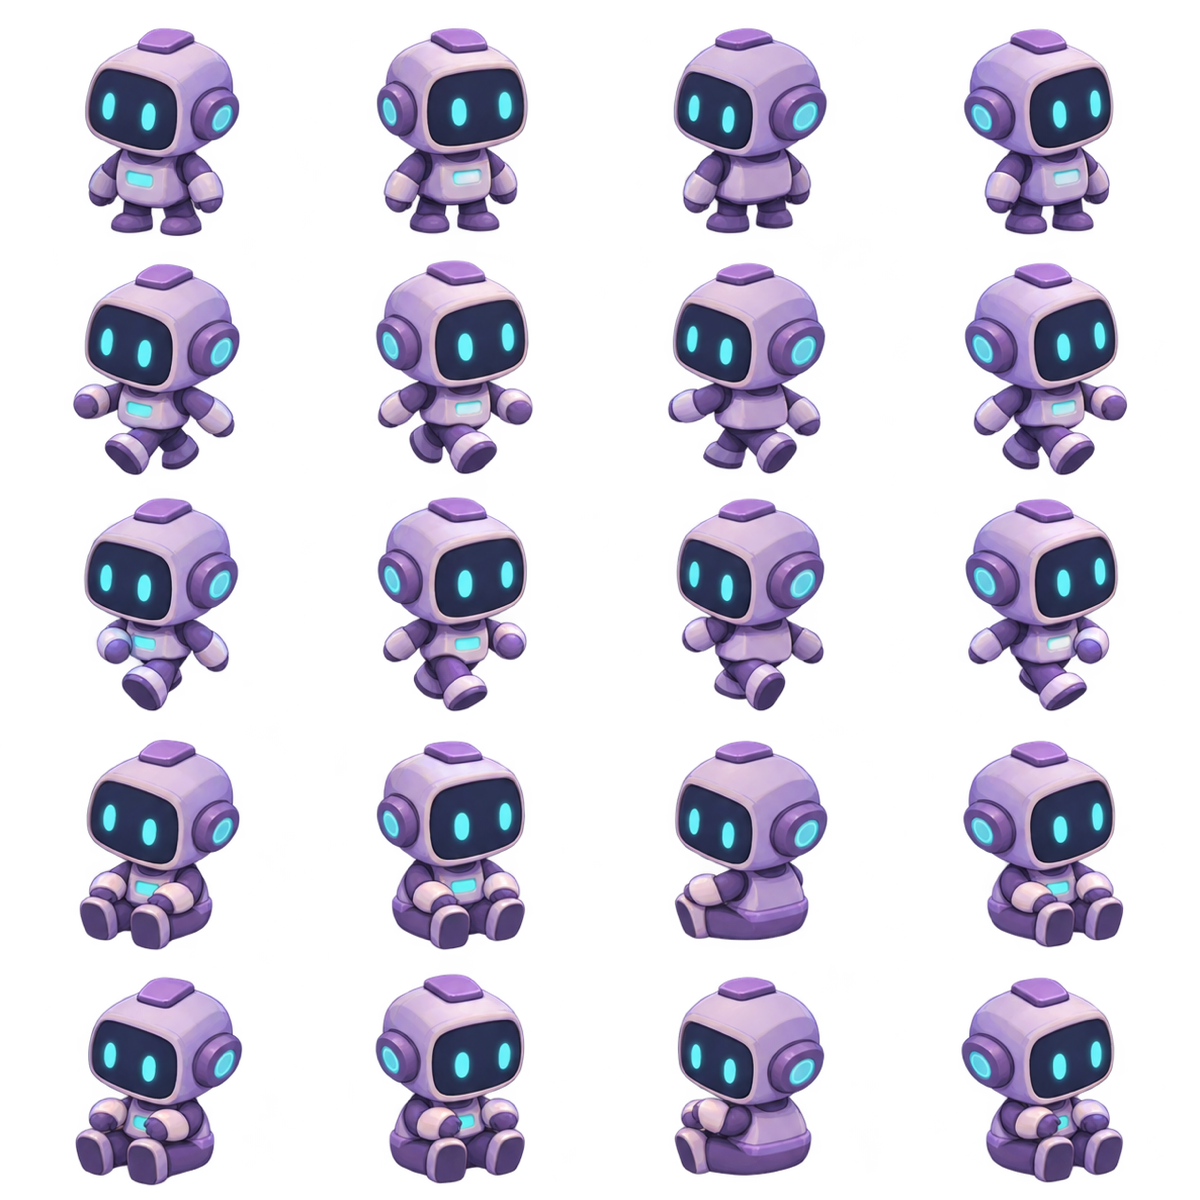
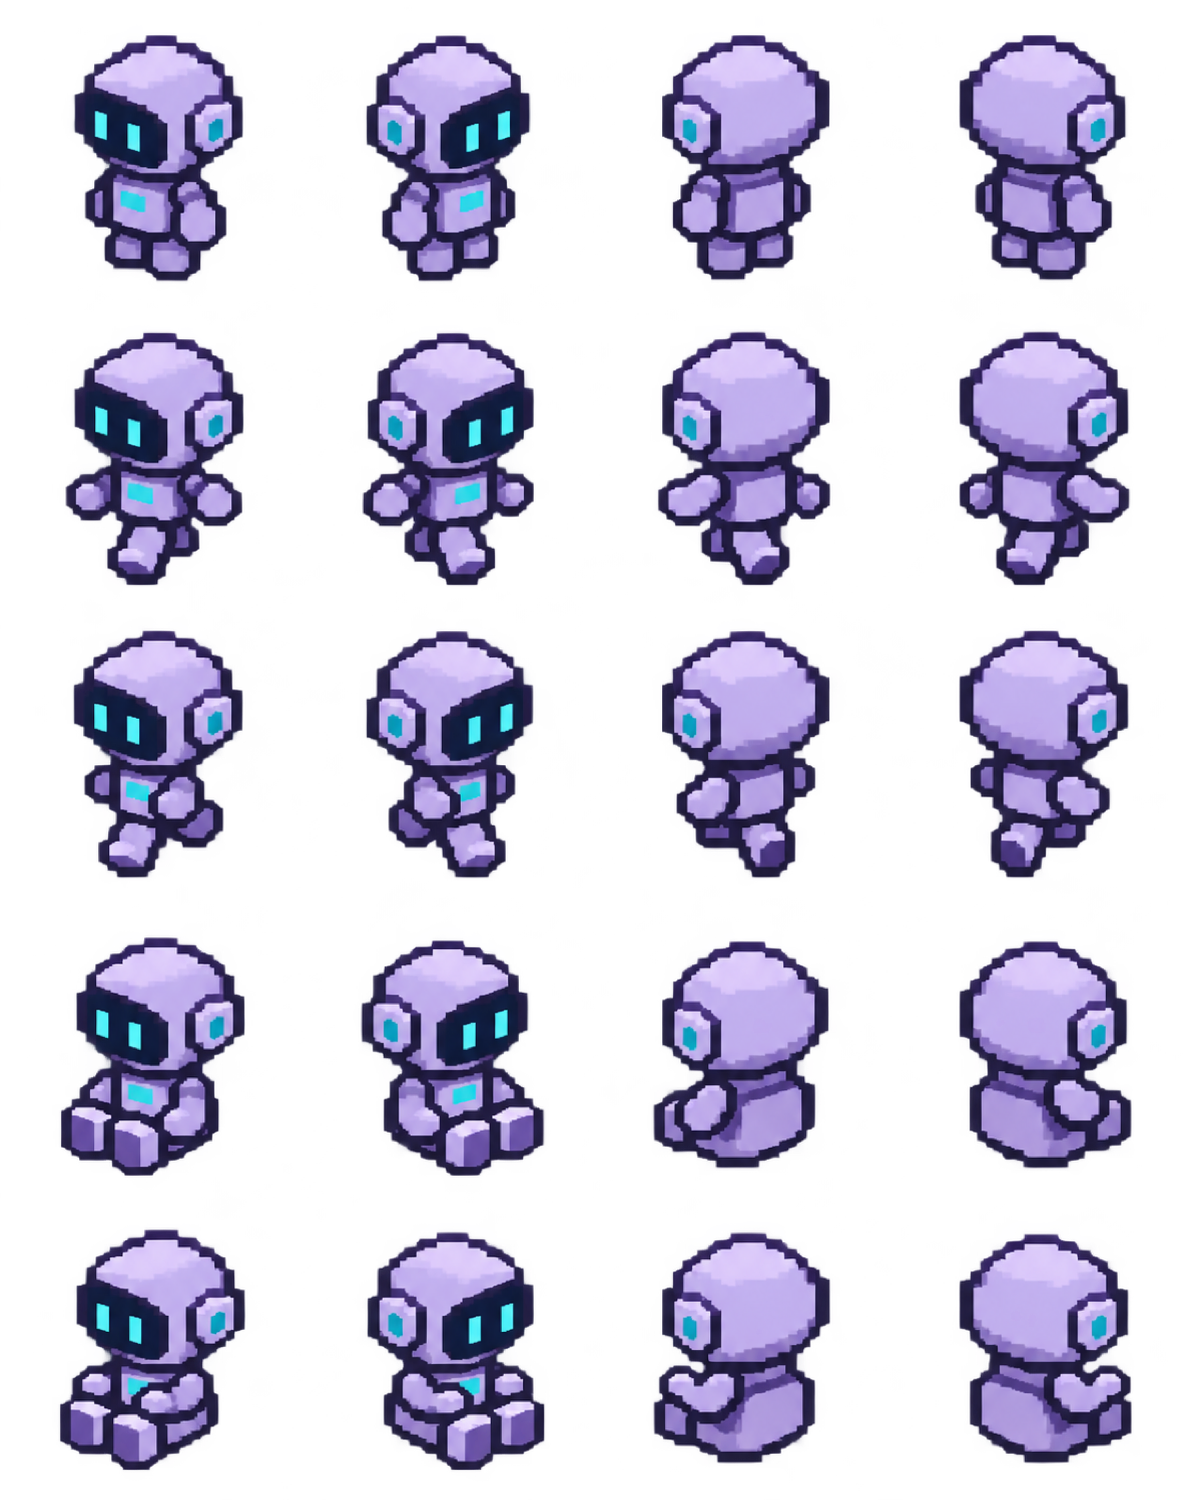
feat: add pixel-art player variants and world

diff --git a/web/src/Office.tsx b/web/src/Office.tsx
@@ -1,7 +1,7 @@
 import { useEffect, useRef } from "react";
 import { Application, Container, Graphics, Text } from "pixi.js";
 import { makeElevator,makeProjectBoard, makeWindows, makeWorkstations } from "./OfficeFixtures";
-import {createCharacterSprite,directionFromDelta,directionFromFacing,preloadCharacterSprites,type CharacterDirection,type CharacterSprite} from "./characterSprites";
+import {createCharacterSprite,directionFromDelta,directionFromFacing,preloadCharacterSprites,type CharacterDirection,type CharacterKind,type CharacterSprite} from "./characterSprites";
 import type {PlayerState} from "./playerMovement";
 import{snapToGrid}from"./worldGrid";
 import{makeStreetScene}from"./StreetScene";
@@ -18,9 +18,9 @@ export function walkToward(current: Position, target: Position, distance: number
  return { x: current.x + dx * distance / length, y: current.y + dy * distance / length };
 }
 export type OfficeAgent = { id: string; name: string; status: string; position: Position; color?: number; pose?:"stand"|"sit"|"work" };
-export type OfficeProps = { agents?: OfficeAgent[]; playerState:PlayerState;sceneKind?:"office"|"street"; onSelect?: (id: string) => void; onDeselect?: () => void; onOpenProjects?: () => void;onOpenElevator?:()=>void;onEnterBuilding?:()=>void; onMove?: (id: string, position: Position) => void; selectedId?: string; deskPositions?: Position[] };
+export type OfficeProps = { agents?: OfficeAgent[]; playerState:PlayerState;playerKind?:Extract<CharacterKind,"player-tech"|"player-inventor">;sceneKind?:"office"|"street"; onSelect?: (id: string) => void; onDeselect?: () => void; onOpenProjects?: () => void;onOpenElevator?:()=>void;onEnterBuilding?:()=>void; onMove?: (id: string, position: Position) => void; selectedId?: string; deskPositions?: Position[] };
 const fallback: OfficeAgent[] = [{ id: "demo-agent", name: "Demo Agent", status: "idle", position: { x: 430, y: 355 } }];
-export function Office({ agents = fallback, playerState,sceneKind="office", onSelect, onDeselect, onOpenProjects,onOpenElevator,onEnterBuilding, onMove, selectedId, deskPositions = desks }: OfficeProps) {
+export function Office({ agents = fallback, playerState,playerKind="player-tech",sceneKind="office", onSelect, onDeselect, onOpenProjects,onOpenElevator,onEnterBuilding, onMove, selectedId, deskPositions = desks }: OfficeProps) {
  const host = useRef<HTMLDivElement>(null);
  const live = useRef({ agents, playerState, onSelect, onDeselect, onOpenProjects,onOpenElevator,onEnterBuilding, onMove, selectedId, deskPositions });
  live.current = { agents, playerState, onSelect, onDeselect, onOpenProjects,onOpenElevator,onEnterBuilding, onMove, selectedId, deskPositions };
@@ -33,7 +33,7 @@ export function Office({ agents = fallback, playerState,sceneKind="office", onSe
   let drag: { id: string; pointerId: number; start: Position; moved: boolean } | undefined;
   let observerCleanup: (() => void) | undefined;
   const init = async () => {
-   await app.init({ width: 860, height: 490, background: "#c4e5ed", antialias: true, resolution: Math.min(window.devicePixelRatio || 1, 2), autoDensity: true });
+   await app.init({ width: 860, height: 490, background: "#c4e5ed", antialias: false, resolution: 1, autoDensity: true });
    if (disposed) { app.destroy(true); return; }
    element.appendChild(app.canvas);
    // Keep world coordinates logical (860×490), scaling the single Pixi stage on resize.
@@ -49,7 +49,7 @@ export function Office({ agents = fallback, playerState,sceneKind="office", onSe
    resize();
    let streetUpdate:((deltaMS:number)=>void)|undefined;
    if(sceneKind==="office"){
-    const room = new Graphics().rect(0, 0, 860, 490).fill("#f5dfb6");room.eventMode="static";room.cursor="crosshair";room.on("pointertap",()=>live.current.onDeselect?.());app.stage.addChild(room);app.stage.addChild(makeWindows(),makeProjectBoard(()=>live.current.onOpenProjects?.()),makeElevator(()=>live.current.onOpenElevator?.()));
+    const room=new Graphics().rect(0,0,860,150).fill("#d9d1ee").rect(0,150,860,340).fill("#d8b98d");for(let row=0;row<10;row++)for(let column=0;column<25;column++)if((row+column)%2===0)room.rect(column*35,150+row*35,35,35).fill("#e2c79d");room.rect(0,144,860,8).fill("#544c70");room.eventMode="static";room.cursor="crosshair";room.on("pointertap",()=>live.current.onDeselect?.());app.stage.addChild(room);app.stage.addChild(makeWindows(),makeProjectBoard(()=>live.current.onOpenProjects?.()),makeElevator(()=>live.current.onOpenElevator?.()));
    }else{const street=await makeStreetScene(()=>live.current.onEnterBuilding?.());app.stage.addChild(street.layer);streetUpdate=street.update;}
    app.stage.eventMode = "static";
    app.stage.on("globalpointermove", e => {
@@ -67,7 +67,7 @@ export function Office({ agents = fallback, playerState,sceneKind="office", onSe
    app.stage.on("pointerupoutside", finishDrag);
    await preloadCharacterSprites();
    const world=new Container();world.sortableChildren=true;app.stage.addChild(world);
-   const playerCharacter=createCharacterSprite();const playerNode=new Container();playerNode.addChild(playerCharacter.sprite);world.addChild(playerNode);let renderedPlayer={...live.current.playerState.position};
+   const playerCharacter=createCharacterSprite(playerKind);const playerNode=new Container();playerNode.addChild(playerCharacter.sprite);world.addChild(playerNode);let renderedPlayer={...live.current.playerState.position};
    let deskKey = "";
    let furniture:Container[]=[];const drawFurniture = (positions: Position[]) => { furniture.forEach(child=>{world.removeChild(child);child.destroy({children:true});});furniture=makeWorkstations(positions);world.addChild(...furniture); };
    if(sceneKind==="office")drawFurniture(live.current.deskPositions);
@@ -108,6 +108,6 @@ export function Office({ agents = fallback, playerState,sceneKind="office", onSe
   };
   void init();
   return () => { disposed = true; observerCleanup?.(); if (app.renderer) app.destroy(true); };
- }, [sceneKind]);
+ }, [sceneKind,playerKind]);
  return <div ref={host} className="office-canvas" aria-label={sceneKind==="street"?"Interactive illustrated street. Use the keyboard to explore and enter the office building.":"Interactive illustrated office. Select an agent and use the keyboard to move."} />;
 }

diff --git a/web/src/main.tsx b/web/src/main.tsx
@@ -26,6 +26,7 @@ type WorkspacePanel = "chat" | "agents" | "projects" | "activity" | "settings"|"
 
 function App() {
   const [panel,setPanel] = React.useState<WorkspacePanel>(null);
+  const [playerKind,setPlayerKind]=React.useState<"player-tech"|"player-inventor">(()=>localStorage.getItem("forma-player-kind")==="player-inventor"?"player-inventor":"player-tech");
   const [layout,setLayout] = React.useState(loadLayout);
   const { state, dispatch } = useSimulation();
   const [selectedAgent,setSelectedAgent] = React.useState<string | undefined>();
@@ -105,7 +106,7 @@ function App() {
   return <div className="office-app">
     <div className="office-world" aria-label="Forma office workspace">
       <div className="office-world-stage">
-        <Office agents={activeScene?.kind==="street"?[]:state.agents} playerState={playerState} sceneKind={activeScene?.kind} deskPositions={sceneDesks} selectedId={selectedAgent} onSelect={setSelectedAgent} onOpenProjects={()=>setPanel("projects")} onOpenElevator={()=>setPanel("elevator")} onEnterBuilding={()=>setPanel("elevator")} onDeselect={()=>setSelectedAgent(undefined)} onMove={(agentId,p)=>dispatch({type:"move",agentId,x:p.x,y:p.y})}/>
+        <Office agents={activeScene?.kind==="street"?[]:state.agents} playerState={playerState} playerKind={playerKind} sceneKind={activeScene?.kind} deskPositions={sceneDesks} selectedId={selectedAgent} onSelect={setSelectedAgent} onOpenProjects={()=>setPanel("projects")} onOpenElevator={()=>setPanel("elevator")} onEnterBuilding={()=>setPanel("elevator")} onDeselect={()=>setSelectedAgent(undefined)} onMove={(agentId,p)=>dispatch({type:"move",agentId,x:p.x,y:p.y})}/>
         <SpeechBubbles bubbles={bubbles} playerPosition={playerState.position} agents={activeScene?.kind==="street"?[]:state.agents} onOpen={openChatMessage}/>
       </div>
     </div>
@@ -124,7 +125,7 @@ function App() {
         {panel==="agents"&&<OfficePanels state={{...state,tasks:[],events:[]}} selectedId={selectedAgent} onSelect={setSelectedAgent} onAssign={(taskId,agentId)=>dispatch({type:"assign",taskId,agentId})}/>}
         {panel==="projects"&&<div className="office-panel-section"><h3>Projects & tasks</h3><p>Demo tasks in your office. Connect a project provider for live projects.</p>{state.tasks.map(task=><article className="office-project" key={task.id}><strong>{task.title}</strong><span>{task.status}</span>{task.status==="queued"&&<select aria-label={"Assign "+task.title} defaultValue="" onChange={e=>{if(e.target.value)dispatch({type:"assign",taskId:task.id,agentId:e.target.value});}}><option value="">Assign agent…</option>{state.agents.filter(a=>a.status==="idle"||a.status==="completed").map(a=><option key={a.id} value={a.id}>{a.name}</option>)}</select>}</article>)}</div>}
         {panel==="activity"&&<div className="office-panel-section"><h3>Office activity</h3><p>Simulation events are separate from chat.</p><ol className="office-activity">{state.events.map(event=><li key={event.id}><small>Tick {event.tick}</small><span>{event.message}</span></li>)}</ol></div>}
-        {panel==="settings"&&<div className="office-panel-section"><h3>Simulation</h3><div className="office-setting"><button onClick={()=>dispatch({type:"toggle"})}>{state.running?"Pause simulation":"Resume simulation"}</button><button onClick={()=>dispatch({type:"reset"})}>Reset simulation</button></div><label className="office-speed">Simulation speed <select value={state.speed} onChange={e=>dispatch({type:"speed",value:Number(e.target.value)})}><option value={0.5}>0.5×</option><option value={1}>1×</option><option value={2}>2×</option><option value={4}>4×</option></select></label><LayoutEditor layout={layout} onChange={setLayout} onReset={()=>{resetLayout();setLayout(defaultLayout);}}/></div>}
+        {panel==="settings"&&<div className="office-panel-section"><h3>Player avatar</h3><label className="office-speed">Style <select value={playerKind} onChange={e=>{const kind=e.target.value as "player-tech"|"player-inventor";setPlayerKind(kind);localStorage.setItem("forma-player-kind",kind);}}><option value="player-tech">Violet tech</option><option value="player-inventor">Street inventor</option></select></label><h3>Simulation</h3><div className="office-setting"><button onClick={()=>dispatch({type:"toggle"})}>{state.running?"Pause simulation":"Resume simulation"}</button><button onClick={()=>dispatch({type:"reset"})}>Reset simulation</button></div><label className="office-speed">Simulation speed <select value={state.speed} onChange={e=>dispatch({type:"speed",value:Number(e.target.value)})}><option value={0.5}>0.5×</option><option value={1}>1×</option><option value={2}>2×</option><option value={4}>4×</option></select></label><LayoutEditor layout={layout} onChange={setLayout} onReset={()=>{resetLayout();setLayout(defaultLayout);}}/></div>}
         {panel==="elevator"&&<div className="office-panel-section"><h3>Select a destination</h3><p>Each numbered floor is a Forma workspace. Street level is the shared exterior.</p><div className="elevator-floors">{floorScenes.map(scene=><button key={scene.id} className={scene.id===activeScene?.id?"active":""} onClick={()=>selectFloor(scene.workspaceId!)}><strong>{scene.floor}</strong><span>{scene.name}</span></button>)}<button className={activeScene?.id===STREET_SCENE.id?"active":""} onClick={selectStreet}><strong>G</strong><span>Street & park</span></button></div></div>}
       </div>
     </div>}

diff --git a/web/src/OfficeFixtures.ts b/web/src/OfficeFixtures.ts
@@ -6,7 +6,7 @@ export function makeWindows(): Container {
  const layer = new Container();
  for (const x of [255, 535]) {
   const sky = new Graphics()
-   .roundRect(x, 18, 210, 104, 8).fill("#89c8ee")
+   .rect(x, 18, 210, 104).fill("#69a9d2")
    .rect(x + 3, 69, 204, 48).fill("#a5d7ee");
   // Layered clouds and distant silhouettes provide a sky texture without network assets.
   for (const [dx,dy,s] of [[28,29,1],[125,46,.8],[166,23,.55]] as const) {
@@ -15,10 +15,10 @@ export function makeWindows(): Container {
    sky.ellipse(x+dx-15*s,18+dy+2*s,16*s,7*s).fill({color:"#e6f6ff",alpha:.8});
   }
   sky.moveTo(x+3,115).lineTo(x+3,101).lineTo(x+43,87).lineTo(x+85,105).lineTo(x+130,90).lineTo(x+207,106).lineTo(x+207,115).closePath().fill("#9ab9b8");
-  sky.roundRect(x,18,210,104,8).stroke({color:"#f9f8ef",width:8});
+  sky.rect(x,18,210,104).stroke({color:"#423b5c",width:8});
   sky.rect(x+102,20,6,100).fill("#f8f7f1");
   sky.rect(x+3,69,204,5).fill("#f8f7f1");
-  sky.roundRect(x-6,122,222,8,2).fill("#bca58b");
+  sky.rect(x-6,122,222,8).fill("#796584");
   layer.addChild(sky);
  }
  return layer;
@@ -27,8 +27,8 @@ export function makeProjectBoard(onOpen: () => void): Container {
  const board = new Container();
  const art = new Graphics();
  art.ellipse(111,189,91,12).fill({color:"#625848",alpha:.18});
- art.roundRect(33,49,158,111,7).fill("#8a969e");
- art.roundRect(39,55,146,98,4).fill("#f9faf6").stroke({color:"#c5cdd1",width:3});
+ art.rect(33,49,158,111).fill("#554c70");
+ art.rect(39,55,146,98).fill("#f7f1df").stroke({color:"#302b49",width:3});
  art.rect(48,65,128,2).fill("#dce3e7");
  art.roundRect(54,81,34,20,3).fill("#d4e4fa");
  art.roundRect(94,81,34,20,3).fill("#e7dcf7");
@@ -56,10 +56,10 @@ export function makeWorkstations(positions:Position[]): Container[] {
   // Furniture is calibrated against a roughly 92px character: 70px top, 45px floor height.
   g.ellipse(p.x,p.y+52,68,13).fill({color:"#4c3b32",alpha:.16});
   // Chair is a separate interaction object behind the desk foreground.
-  g.roundRect(p.x-21,p.y+42,42,34,9).fill("#617286").stroke({color:"#405064",width:2});
-  g.roundRect(p.x-24,p.y+67,48,12,6).fill("#506176");g.rect(p.x-3,p.y+78,6,18).fill("#435166");
+  g.rect(p.x-21,p.y+42,42,34).fill("#59627b").stroke({color:"#302f49",width:3});
+  g.rect(p.x-24,p.y+67,48,12).fill("#444a68");g.rect(p.x-3,p.y+78,6,18).fill("#343851");
   for(const dx of [-16,16])g.circle(p.x+dx,p.y+97,5).fill("#293545");
-  for(const dx of [-43,43]) fg.roundRect(p.x+dx,p.y+23,7,43,2).fill("#6b493a");
+  for(const dx of [-43,43]) fg.rect(p.x+dx,p.y+23,8,43).fill("#694734");
   g.moveTo(p.x-58,p.y+2).lineTo(p.x+48,p.y+2).lineTo(p.x+59,p.y+22).lineTo(p.x-47,p.y+22).closePath().fill("#c9956d").stroke({color:"#9a6448",width:2});
   fg.moveTo(p.x-47,p.y+22).lineTo(p.x+59,p.y+22).lineTo(p.x+57,p.y+31).lineTo(p.x-49,p.y+31).closePath().fill("#a46d51");
   if(index%2===0) {

diff --git a/web/src/characterSprites.ts b/web/src/characterSprites.ts
@@ -3,21 +3,22 @@ import{publicAsset}from"./publicAsset";
 
 export type CharacterDirection="southwest"|"southeast"|"northwest"|"northeast";
 export type CharacterAnimation="idle"|"walk"|"sit"|"work";
+export type CharacterKind="agent"|"player-tech"|"player-inventor";
 export type CharacterSprite={sprite:Sprite;setPose:(animation:CharacterAnimation,direction:CharacterDirection,time:number)=>void};
 
-const FRAME_WIDTH=300,FRAME_HEIGHT=240;
+const FRAME_WIDTH=300,FRAME_HEIGHT=300;
 const columns:Record<CharacterDirection,number>={southwest:0,southeast:1,northwest:2,northeast:3};
 const rows={idle:0,walkA:1,walkB:2,sit:3,work:4} as const;
-let texturesPromise:Promise<Texture[][]>|undefined,loadedTextures:Texture[][]|undefined;
+const paths:Record<CharacterKind,string>={agent:"assets/characters/forma-agent/atlas.png","player-tech":"assets/characters/forma-player-tech/atlas.png","player-inventor":"assets/characters/forma-player-inventor/atlas.png"};
+const texturePromises=new Map<CharacterKind,Promise<Texture[][]>>(),loadedTextures=new Map<CharacterKind,Texture[][]>();
 
-function loadTextures():Promise<Texture[][]>{
- if(!texturesPromise)texturesPromise=Assets.load(publicAsset("assets/characters/forma-agent/atlas.png")).then(source=>loadedTextures=Array.from({length:5},(_,row)=>Array.from({length:4},(_,column)=>new Texture({source,frame:new Rectangle(column*FRAME_WIDTH,row*FRAME_HEIGHT,FRAME_WIDTH,FRAME_HEIGHT)}))));
- return texturesPromise;
+function loadTextures(kind:CharacterKind):Promise<Texture[][]>{
+ let promise=texturePromises.get(kind);if(!promise){promise=Assets.load(publicAsset(paths[kind])).then(texture=>{texture.source.scaleMode="nearest";const textures=Array.from({length:5},(_,row)=>Array.from({length:4},(_,column)=>new Texture({source:texture.source,frame:new Rectangle(column*FRAME_WIDTH,row*FRAME_HEIGHT,FRAME_WIDTH,FRAME_HEIGHT)})));loadedTextures.set(kind,textures);return textures;});texturePromises.set(kind,promise);}return promise;
 }
 
-export async function preloadCharacterSprites():Promise<void>{await loadTextures();}
-export function createCharacterSprite():CharacterSprite{
- const textures=loadedTextures;if(!textures)throw new Error("character sprites must be preloaded");
+export async function preloadCharacterSprites():Promise<void>{await Promise.all((Object.keys(paths) as CharacterKind[]).map(loadTextures));}
+export function createCharacterSprite(kind:CharacterKind="agent"):CharacterSprite{
+ const textures=loadedTextures.get(kind);if(!textures)throw new Error("character sprites must be preloaded");
  const sprite=new Sprite(textures[0][1]);
  sprite.anchor.set(.5,.88);sprite.scale.set(.42);
  return{sprite,setPose:(animation,direction,time)=>{

diff --git a/web/src/StreetScene.ts b/web/src/StreetScene.ts
@@ -7,7 +7,7 @@ export async function makeStreetScene(onEnterBuilding:()=>void){
  const label=new Text({text:"ENTER BUILDING",style:{fontFamily:"sans-serif",fontSize:11,fontWeight:"bold",fill:0xffffff,stroke:{color:0x263548,width:4}}});label.anchor.set(.5);label.position.set(428,294);layer.addChild(label);
  const traffic=new Container();traffic.sortableChildren=true;layer.addChild(traffic);
  const colors=[0xe35f55,0x4d88c7,0xe2ad48,0x65a879];
- const cars=colors.map((color,index)=>{const car=new Container(),body=new Graphics();body.roundRect(-26,-11,52,22,7).fill(color).stroke({color:0x26313e,width:2});body.roundRect(-13,-14,27,13,5).fill(0xb9def0);for(const x of [-17,17])body.circle(x,11,5).fill(0x27313d);car.addChild(body);car.y=index%2?346:306;car.x=index*235;car.zIndex=car.y;traffic.addChild(car);return{car,speed:index%2?-.065:.075};});
- const signal=new Graphics();signal.roundRect(815,274,22,45,6).fill(0x27313d);signal.circle(826,287,6).fill(0xe65d54);signal.circle(826,304,6).fill(0x60bd75);signal.zIndex=400;traffic.addChild(signal);
+ const cars=colors.map((color,index)=>{const car=new Container(),body=new Graphics();body.rect(-28,-10,56,20).fill(0x26313e).rect(-24,-14,40,20).fill(color).rect(-10,-18,23,8).fill(0xb9def0).rect(-19,10,10,6).fill(0x202936).rect(11,10,10,6).fill(0x202936);car.addChild(body);car.y=index%2?346:306;car.x=index*235;car.zIndex=car.y;traffic.addChild(car);return{car,speed:index%2?-.065:.075};});
+ const signal=new Graphics();signal.rect(815,274,22,45).fill(0x27313d).rect(821,282,10,10).fill(0xe65d54).rect(821,299,10,10).fill(0x60bd75);signal.zIndex=400;traffic.addChild(signal);
  return{layer,update:(deltaMS:number)=>{for(const entry of cars){entry.car.x+=entry.speed*deltaMS;if(entry.speed>0&&entry.car.x>900)entry.car.x=-60;if(entry.speed<0&&entry.car.x<-60)entry.car.x=900;}}};
 }

diff --git a/web/src/office.css b/web/src/office.css
@@ -1,7 +1,8 @@
-.office-canvas{margin-top:32px;max-width:100%;overflow:hidden;border:1px solid #3b4854;border-radius:18px;background:#c4e5ed}.office-canvas canvas{display:block;max-width:100%;height:auto;margin:auto}
+.office-canvas{margin-top:32px;max-width:100%;overflow:hidden;border:1px solid #3b4854;border-radius:18px;background:#c4e5ed}.office-canvas canvas{display:block;max-width:100%;height:auto;margin:auto;image-rendering:pixelated;image-rendering:crisp-edges}
 
 .office-3d-stack { position: relative; width: min(100%, 860px); }
 .office-3d-stack .office-canvas { width: 100%; }
 .office-characters { position: absolute; inset: 33px 0 0; pointer-events: none; overflow: hidden; }
 .office-characters canvas { display: block; }
-\n.player-hint { font-size: 0.88rem; margin: 14px 0 0; opacity: 0.82; }\n.player-hint kbd { display:inline-block; padding:2px 5px; margin:0 2px; border:1px solid currentColor; border-radius:4px; font:inherit; font-size:0.8rem; }\n
+.player-hint { font-size: 0.88rem; margin: 14px 0 0; opacity: 0.82; }
+.player-hint kbd { display:inline-block; padding:2px 5px; margin:0 2px; border:1px solid currentColor; border-radius:4px; font:inherit; font-size:0.8rem; }

diff --git a/docs/characters.md b/docs/characters.md
@@ -1,11 +1,11 @@
 # Forma 2.5D characters
 
-Forma renders the office, furniture, player, and agents in one PixiJS scene. Characters use transparent directional sprite atlases, smooth interpolation, and Y-depth sorting to create a 2.5D presentation without a second 3D renderer.
+Forma renders the office, furniture, player, and agents in one PixiJS pixel-art scene. Characters use transparent directional sprite atlases, nearest-neighbor texture sampling, smooth grid interpolation, and Y-depth sorting. The selectable human avatars use the same short, wide mascot proportions as robot agents while retaining distinct faces, clothes, and silhouettes.
 
 The v1 character manifest defines four directions and idle, two-frame walk, seated, and seated-work states. Ground and head anchors keep movement, seating, speech, and status indicators independent of the artwork. Replacement character packs may provide different art while preserving this contract.
 
 Workstations expose a blocked desk footprint, chair cell, approach cell, seated direction, and reservation ID. Working agents reserve a station, follow the grid path to its approach, transition into the chair, and render a provider-state indicator above their head. A user entering an unreserved chair cell uses the same seated animation and stands on the approach cell when movement resumes.
 
-The initial Forma agent atlas was generated with OpenAI's built-in image generation tool using an original friendly lavender robot brief, then normalized to a 1200×1200 transparent 4×5 atlas. It contains no third-party character artwork or logos.
+The initial pixel robot and two original player variants were generated with OpenAI's built-in image generation tool, then normalized to 1200×1500 transparent 4×5 atlases. The violet tech and street-inventor outfits translate broad tactical-game archetypes into original, weapon-free mascot designs without third-party logos or exact costume replicas.
 
 Run `cd web && npm install && npm run dev`. Pixi owns the complete render loop and interaction surface.

diff --git a/docs/world-scenes.md b/docs/world-scenes.md
@@ -16,7 +16,7 @@ Office furniture contributes blocked cells, chair cells, and approach cells. Str
 
 The initial assets are original, replaceable production placeholders generated with OpenAI's built-in image generation tool:
 
-- `web/public/assets/characters/forma-agent/atlas.png` is a transparent 4×5 directional character atlas covering idle, walk, seated, and seated-work poses.
+- `web/public/assets/characters/forma-agent/atlas.png` and the two `forma-player-*` atlases are transparent 1200×1500 directional 4×5 sprite sheets covering idle, walk, seated, and seated-work poses.
 - `web/public/assets/scenes/street.png` is an 860×490 New York-inspired street, park, and office entrance background.
 
-Gameplay geometry and interaction targets are code-defined rather than baked into the images. Replacement art should retain the manifest frame contract and scene dimensions or update the corresponding manifest and geometry together.
+Gameplay geometry and interaction targets are code-defined rather than baked into the images. Pixel textures use nearest-neighbor sampling, and replacement art should retain the manifest frame contract and scene dimensions or update the corresponding manifest and geometry together.
